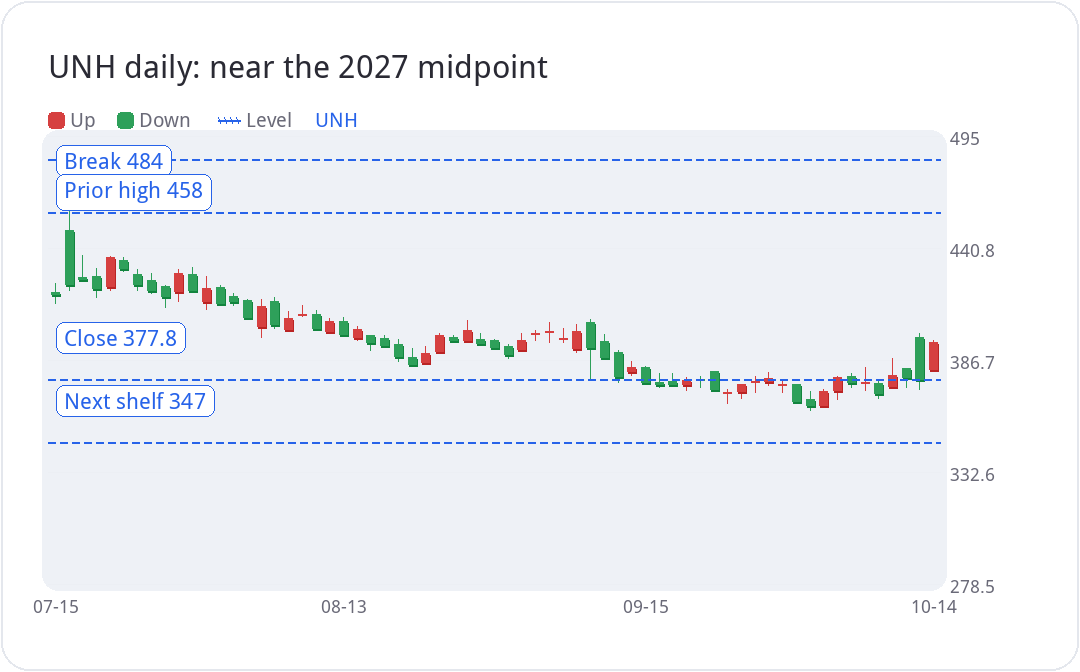
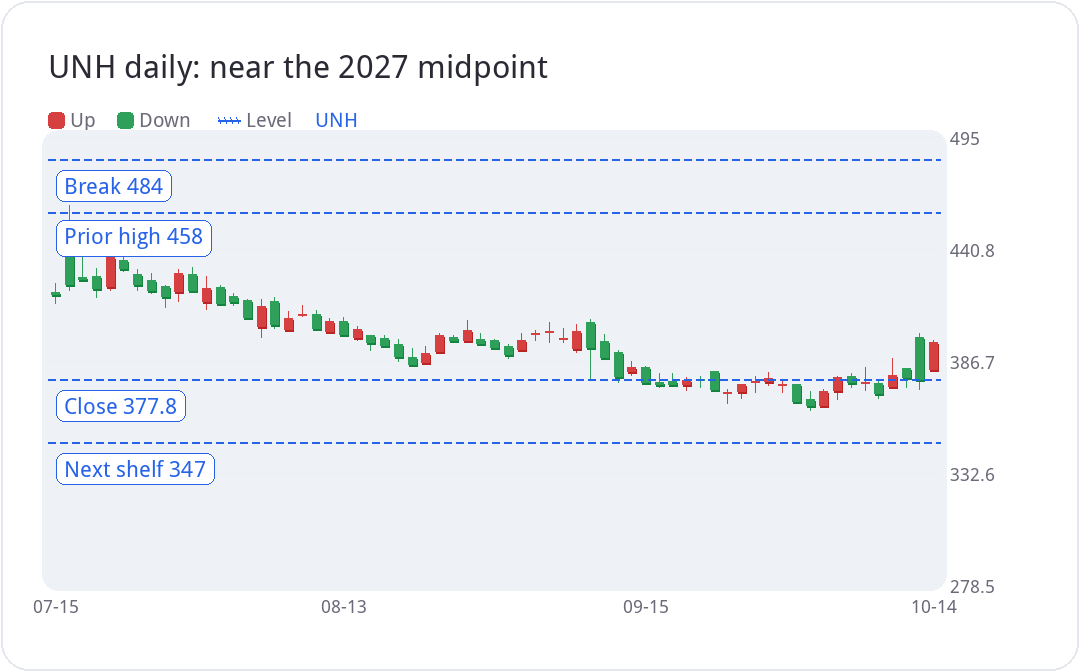
fix(blog): place UNH level labels under the dashed lines (#185)
Each blue caption sits just below the level it names. The image URL uses ?v=below so the previous chart is not reused from cache.

diff --git a/i18n/zh/docusaurus-plugin-content-blog/2026-10-13-d17f32/article.html b/i18n/zh/docusaurus-plugin-content-blog/2026-10-13-d17f32/article.html
@@ -17,7 +17,7 @@
       <p style="margin:0 0 16px 0;padding:0;color:#2a2a34;font-size:22px;line-height:1.45;font-weight:850;text-align:left;letter-spacing:0;">联合健康把价计进去了</p>
       <p style="margin:0 0 16px 0;padding:0;color:#454550;font-size:16px;line-height:1.9;font-weight:400;text-align:left;letter-spacing:0;word-spacing:normal;white-space:normal;word-break:normal;"><strong style="color:#2a2a34;font-weight:700;">UNH</strong> 第三财季调整后每股收益 4.69 美元，高于预期的 4.14 美元。营收 1127 亿，高于预期的 1113.1 亿。全年调整后每股收益指引提到至少 20.50 美元，之前的区间是 19.50 到 20 美元，上沿抬了五毛。这是今年第三次上修全年利润展望。</p>
       <p style="margin:0 0 16px 0;padding:0;color:#454550;font-size:16px;line-height:1.9;font-weight:400;text-align:left;letter-spacing:0;word-spacing:normal;white-space:normal;word-break:normal;">股价是高开低走。收盘 377.76，跌 0.20%。金融股当天很多都是这个形状，摩根大通、高盛也一样。2026 年前瞻估值大约 276 到 444，中位 360。现价已经高于当年中位。要看的是 2027 年：301 到 499，中位 405。现价就贴在这个中位附近，基本面并不贵。技术上要看见新的一段，得先过 484。前面高点 458 挡住过一次，回撤之后又回到 361 到 484 的震荡。再往下一档是 347 到 357。经营上，今年每股收益还在往上提，之前的业绩逆风已经转过来了。想长拿的，要有耐心。458 看起来还不是这轮的顶。</p>
-      <p style="margin:4px 0 16px 0;padding:0;text-align:center;"><img src="/img/2026-10-13-d17f32/chart-unh-kline.png?v=center" alt="UNH 日K：贴着 2027 年中位" style="display:block;width:100%;height:auto;border:0;border-radius:14px;padding:0;background:#ffffff;box-sizing:border-box;"/></p>
+      <p style="margin:4px 0 16px 0;padding:0;text-align:center;"><img src="/img/2026-10-13-d17f32/chart-unh-kline.png?v=below" alt="UNH 日K：贴着 2027 年中位" style="display:block;width:100%;height:auto;border:0;border-radius:14px;padding:0;background:#ffffff;box-sizing:border-box;"/></p>
     </section>
     <section style="margin:30px 0 0 0;padding:28px 0 0 0;text-align:left;">
       <section style="margin:0 0 12px 0;padding:0;text-align:left;line-height:1.2;border:0;display:flex;align-items:center;gap:10px;">

diff --git a/blog/2026-10-13-d17f32/article.html b/blog/2026-10-13-d17f32/article.html
@@ -11,7 +11,7 @@
 <p style="margin:0 0 16px 0;padding:0;color:#2a2a34;font-size:22px;line-height:1.45;font-weight:850;text-align:left;letter-spacing:0;">UnitedHealth is already priced near the middle</p>
 <p style="margin:0 0 16px;color:#454550;font-size:16px;line-height:1.9;"><strong>UNH</strong> earned 4.69 dollars a share on an adjusted basis in the third quarter, above the 4.14 dollars expected. Revenue was 112.7 billion, above 111.31 billion. Full-year adjusted earnings are now guided to at least 20.50 dollars a share. The prior range was 19.50 to 20.00. That is a fifty-cent raise at the top, and the third time this year the outlook has moved up.</p>
 <p style="margin:0 0 16px;color:#454550;font-size:16px;line-height:1.9;">The stock opened high and closed weak. It finished at 377.76, down 0.20%. A lot of financials did the same thing, including JPMorgan and Goldman. The 2026 forward range is about 276 to 444, with a midpoint of 360. The price is already above this year&#x27;s midpoint. The year that matters is 2027: 301 to 499, midpoint 405. The stock is sitting on that midpoint. The business is not expensive. Technically, a new leg needs a break of 484. The prior high at 458 rejected it once. After the pullback it is back in the 361 to 484 range. The next shelf down is 347 to 357. Operations are still lifting earnings. Last year&#x27;s headwind has turned. A long-term holder needs patience. 458 does not look like the high of this run.</p>
-<figure style="margin:0 0 20px;text-align:center;"><img src="/img/2026-10-13-d17f32/chart-unh-kline.en.png?v=center" alt="UNH daily: near the 2027 midpoint" style="max-width:100%;border-radius:8px;" /></figure>
+<figure style="margin:0 0 20px;text-align:center;"><img src="/img/2026-10-13-d17f32/chart-unh-kline.en.png?v=below" alt="UNH daily: near the 2027 midpoint" style="max-width:100%;border-radius:8px;" /></figure>
 </section>
 <section style="margin:0 0 32px;">
 <div style="display:flex;align-items:center;gap:12px;margin:0 0 16px;"><span style="color:#2763e9;font-size:12px;font-weight:800;letter-spacing:0.14em;white-space:nowrap;">2 · SEMIS</span><span style="flex:1;height:1px;background:#2763e9;"></span></div>
